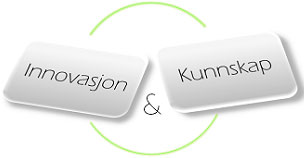
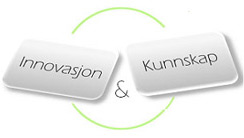
Changed header layout

diff --git a/app/assets/stylesheets/style.css.scss b/app/assets/stylesheets/style.css.scss
@@ -24,20 +24,21 @@ li{list-style:none}
 /*Header Styles*/
 #header{
     width:974px;
-    height:210px;
+    height:160px;
     margin:0 auto;
-    padding-top: 10px;
+    padding-top: 0px;
     padding-bottom: 10px;
-		background:url(/assets/innovation_1.jpg) no-repeat 100% 40px;
+		background:url(/assets/innovation_1.jpg) no-repeat 100% 20px;
 		}
 	#logo{
 		width:551px;
 		height:133px;
 		display:block;
+    padding-top:10px;
 		}
 	#top_menu{
-		width:100%;
 		height:30px;
+    float:right;
 		}
 		#top_menu ul{ float:right}
 		#top_menu ul li{ float:left; display:inline; line-height:30px; height:30px; margin-left: 15px;}
@@ -91,6 +92,7 @@ li{list-style:none}
 #main_menu ul li a {
 //  font-size:14px;
   text-transform: uppercase;
+  color: #20A0E9;
 }
 
 #flash-message{

diff --git a/app/assets/stylesheets/project/style.css b/app/assets/stylesheets/project/style.css
@@ -48,18 +48,18 @@ body input, body select{
 /*Header Styles*/
 #header{
 		width:974px;
-		height:210px;      
+		height:160px;      
 		margin:0 auto;
-		background:url(/assets/innovation_1.jpg) no-repeat 100% 40px;
+		background:url(/assets/innovation_1.jpg) no-repeat 100% 20px;
 		}
 	#logo{
 		width:551px;
 		height:133px;
 		display:block;
-		margin-top:25px;
+		padding-top:10px;
 		}
 	#top_menu{
-		width:100%;
+		float:right;
 		height:30px;
 		}
 		#top_menu ul{ float:right}
@@ -77,7 +77,11 @@ body input, body select{
     padding:5px 6px;
 }
 
-#main_menu ul li a{ font-size:14px;}
+#main_menu ul li a{
+  font-size:14px;
+  text-transform: uppercase;
+  color: #20A0E9;
+}
 
 #content-area{
 		width:100%;
